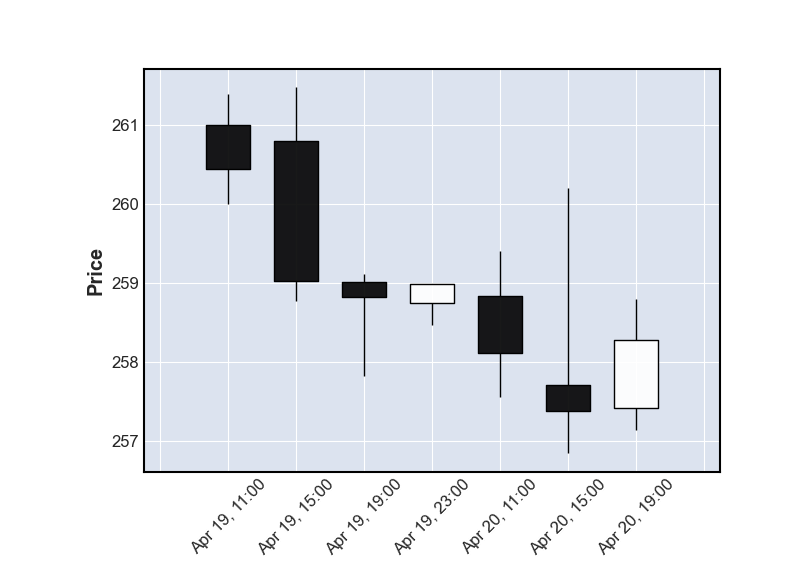
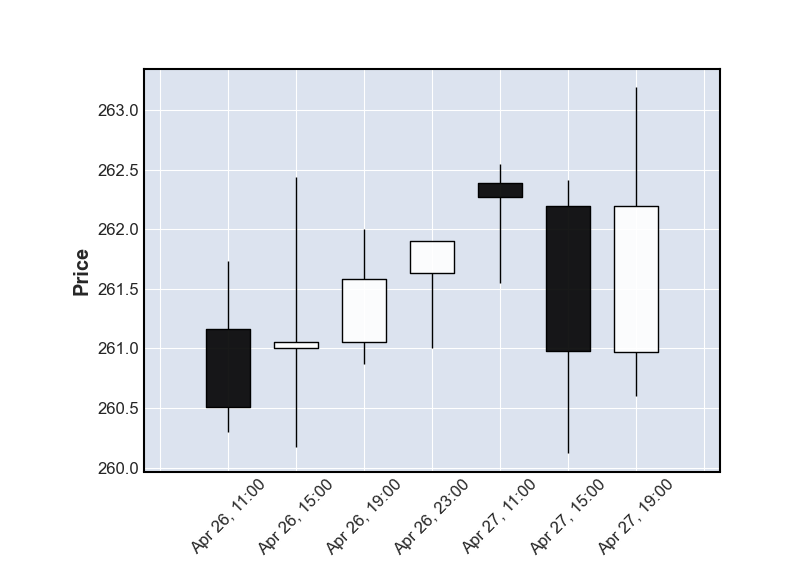
Добавлена запись в БД + Обработка ошибки "частые запросы request"

diff --git a/templates/index.html b/templates/index.html
@@ -110,15 +110,24 @@
         <h3 class="text-center">{{ TITLE[0] }} <strong>{{ TITLE[1] }} </strong><small class="text-muted">{{ TITLE[2] }} </small><em>{{ TITLE[3] }}</em></h3>
         <!-- КОНЕЦ Отправить данные в Python -->
         <h1><span>График</span></h1>
-        <div style="text-align: center;"><img src="/static/graph.png"></div><br>
-        <form class="form-inline justify-content-center" name="next" method="post">
-            <input type="submit" class="btn btn-light mb-2" value="Назад" name="submit">
-            &nbsp;&nbsp;&nbsp;&nbsp;
-            {{ JSON["progress"][0] }} из {{ JSON["progress"][1] }}
-            &nbsp;&nbsp;&nbsp;&nbsp;
-            <input type="submit" class="btn btn-light mb-2" value="Вперед" name="submit">
-        </form>
 
+
+            {% if JSON['progress'] == None %}
+                <div style="text-align: center;"><img src="/static/none.png"></div><br>
+                <form class="form-inline justify-content-center" name="next" method="post">
+                &nbsp;&nbsp;&nbsp;&nbsp;
+                <br>
+                </form>
+            {% else %}
+                <div style="text-align: center;"><img src="/static/graph.png"></div><br>
+                <form class="form-inline justify-content-center" name="next" method="post">
+                <input type="submit" class="btn btn-light mb-2" value="Назад" name="submit">
+                &nbsp;&nbsp;&nbsp;&nbsp;
+                {{ JSON["progress"][0] }} из {{ JSON["progress"][1] }}
+                &nbsp;&nbsp;&nbsp;&nbsp;
+                <input type="submit" class="btn btn-light mb-2" value="Вперед" name="submit">
+                </form>
+            {% endif %}
 
 
     </div>
@@ -126,7 +135,13 @@
     <div>
         <div class="films container">
             <div class="row">
-                {% for i in range(16) %}
+
+
+                {% if JSON['table'] == None %}
+                    &nbsp;&nbsp;&nbsp;<h3 class="text-center">Данные не получены!</h3>
+                {% else %}
+
+                    {% for i in range(16) %}
                     <div class="col-lg-3">
                         <b>{{ JSON['table'][i][0] }}</b><br>
                         &nbsp;&nbsp;{{ JSON['table'][i][1] }}<br>
@@ -134,8 +149,11 @@
                         &nbsp;&nbsp;{{ JSON['table'][i][3] }}<br>
                         &nbsp;&nbsp;{{ JSON['table'][i][4] }}<br><br>
                     </div>
-                {% endfor %}
-            </div>
+                    {% endfor %}
+
+                {% endif %}
+
+            </h3>
         </div>
     </div>
 

diff --git a/start.py b/start.py
@@ -3,7 +3,9 @@ from polygon import RESTClient
 from flask import Flask, render_template, request
 import datetime
 from class_graph import Graph
+from class_database import Database
 import multiprocessing
+import requests
 
 
 # ---- Замметка (можно удалить) ----
@@ -47,11 +49,15 @@ def okr(number, n=2, mode=None):
 # Получить Бары для "t" с периодом "p" на промежутке от "date_from" до "date_to"
 def get_bars(t, p, date_from, date_to):
     key = "P4KJxw1ZvsZ9JDxWPGS2VXvBnxCpDi8H"
-    with RESTClient(key) as client:
-        title = [f'Данные для данные для', f'{t}', f'с {date_from} по {date_to}', f'(Период: {period} min)']
-        resp = client.stocks_equities_aggregates(t, p, "minute", date_from, date_to, unadjusted=False)
-        print("{} [get_bars] Принято свеч: {}".format(datetime.datetime.now(), len(resp.results)))
-        return {"Main": resp, "Candles": resp.results, "Title": title}
+    try:
+        with RESTClient(key) as client:
+            title = [f'Данные для данные для', f'{t}', f'с {date_from} по {date_to}', f'(Период: {period} min)']
+            resp = client.stocks_equities_aggregates(t, p, "minute", date_from, date_to, unadjusted=False)
+            print("{} [get_bars] Принято свеч: {}".format(datetime.datetime.now(), len(resp.results)))
+            return {"Main": resp, "Candles": resp.results, "Title": title}
+    except requests.exceptions.HTTPError:
+        print('Подождите немного, слишком частые запросы к "PolygonClient"')
+        return None
 
 
 # Получить список с текстом для таблицы на основе данных "resp"
@@ -115,14 +121,25 @@ def index():
             ticker = request.form['ticket']
             period = int(request.form['period'])
 
-            data = get_bars(t=ticker, p=period, date_from="2021-04-18", date_to="2021-05-18")
-            th = multiprocessing.Process(None, graph.save_graph, args=(data["Candles"], position[0], position[1]))
-            th.start()
-            wait(th)
-            table = get_table(data["Main"])
-            progress = [position[1] + count + 1, len(data["Candles"])]
-            json = {"ticker": ticker, "period": period, "table": table, "progress": progress}
-            return render_template('index.html', TITLE=data["Title"], JSON=json)
+            data = get_bars(t=ticker, p=period, date_from=date_from, date_to=date_to)
+            if data is not None:
+                # Запись в БД
+                _id = db.check_documents({"Title": ticker, "Period": period})
+                if not _id:
+                    db.save({"Title": ticker, "Period": period, "Data": data["Candles"]})
+                else:
+                    db.save({"_id": _id[0], "Title": ticker, "Period": period, "Data": data["Candles"]})
+                th = multiprocessing.Process(None, graph.save_graph, args=(data["Candles"], position[0], position[1]))
+                th.start()
+                wait(th)
+                table = get_table(data["Main"])
+                progress = [position[1] + count + 1, len(data["Candles"])]
+                json = {"ticker": ticker, "period": period, "table": table, "progress": progress}
+                return render_template('index.html', TITLE=data["Title"], JSON=json)
+            else:
+                title = ['Подождите немного и попробуйте снова :)', "", '(слишком частые запросы к "PolygonClient")']
+                json = {"ticker": ticker, "period": period, "table": None, "progress": None}
+                return render_template('index.html', TITLE=title, JSON=json)
         elif request.form['submit'] == "Вперед":
             if position[1] + count + 1 < len(data["Candles"]):
                 position[1] += count
@@ -151,10 +168,16 @@ def index():
 if __name__ == '__main__':
 
     graph = Graph()
+    db = Database(string_db="mongodb://localhost:27017/?readPreference=primary&appname=MongoDB%20Compass&ssl=false")
+    db.enter_database("PolygonClientTesting")
+    db.enter_collection("Data")
 
     ticker = "MSFT"
     period = 240
-    data = get_bars(t=ticker, p=period, date_from="2021-04-18", date_to="2021-05-18")
+    date_from = "2021-04-25"
+    date_to = "2021-05-25"
+
+    data = get_bars(t=ticker, p=period, date_from=date_from, date_to=date_to)
     table = get_table(data["Main"])
 
     count = 6
